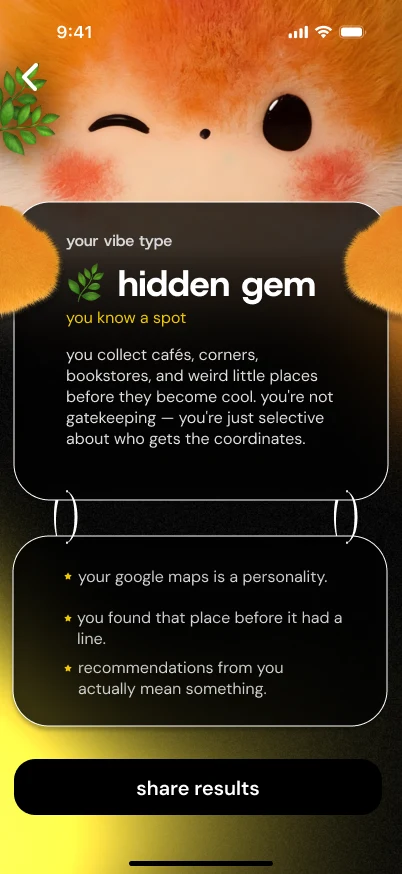
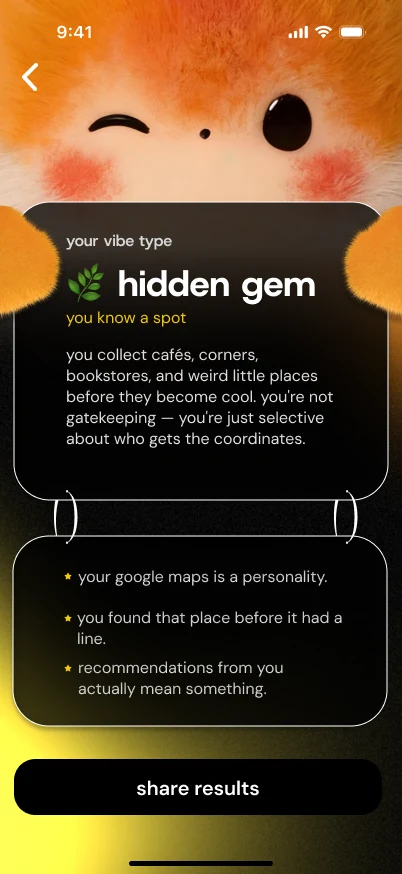
Blinkko: fuller onboarding flow, device-join screens, new hidden gem result
Onboarding prototype runs welcome to vibe type in eight steps. New
section shows the hi-fi pairing sequence: senses, the encounter, fit.

Changed region(s): [[0.0, 0.0618, 0.1791, 0.2162]]

diff --git a/projects/blinkko/index.html b/projects/blinkko/index.html
@@ -1369,6 +1369,11 @@
             transition: opacity 0.15s linear;
         }
 
+        /* a long flow (onboarding has eight steps) gets smaller thumbnails so the strip stays on one line */
+        .proto-strip:has(.phone-stage:nth-child(6)) .phone-stage {
+            width: min(9.5%, 64px);
+        }
+
         .proto-strip .phone-stage.is-current,
         .proto-strip .phone-stage:hover {
             opacity: 1;
@@ -2293,19 +2298,31 @@
                 <div class="app-stage" id="app-ui">
                     <div class="app-copy">
                         <p class="kicker">Onboarding</p>
-                        <p>Welcome: “a light born from what you feel…” then let’s go. Sign-in is Apple / Google first; avatar and username finish the free-app path. Once you are signed in, the vibe quiz lets Blinkko get to know you. The permission stack is no longer required up front.</p>
+                        <p>Welcome: “a light born from what you feel…” then let’s go. Sign-in is Apple / Google first; email is the fallback, confirmed with a six-digit code. Once you are signed in, the vibe quiz lets Blinkko get to know you and ends on your vibe type. The permission stack is no longer required up front.</p>
                     </div>
                     <div class="proto" data-first="move-in">
                         <button class="proto-phone" type="button" aria-label="Step onboarding prototype">
                             <span class="proto-stage">
                                 <img loading="lazy" decoding="async" class="is-on" src="app-welcome-opt.webp" alt="Blinkko welcome">
-                                <img loading="lazy" decoding="async" src="app-signin-opt.webp" alt="Blinkko sign in">
+                                <img loading="lazy" decoding="async" src="app-signin-opt.webp" alt="Blinkko sign up">
+                                <img loading="lazy" decoding="async" src="onboarding/verify-code.webp" alt="Verify your identity with a six-digit code">
+                                <img loading="lazy" decoding="async" src="onboarding/confirmed.webp" alt="Confirmed">
+                                <img loading="lazy" decoding="async" src="quiz/intro.webp" alt="Quiz: blinkko wants to know about you">
+                                <img loading="lazy" decoding="async" src="quiz/q1.webp" alt="Quiz question: it’s friday 6pm, what’s the move">
+                                <img loading="lazy" decoding="async" src="onboarding/quiz-loading.webp" alt="Loading your vibe type">
+                                <img loading="lazy" decoding="async" src="quiz/result-hiddengem.webp?v=2" alt="Vibe type result: hidden gem">
                             </span>
                         </button>
-                        <p class="proto-hint">Welcome → sign in</p>
+                        <p class="proto-hint">Welcome → sign up → verify → about you → quiz → your vibe type</p>
                         <div class="phone-row proto-strip">
                             <div class="phone-stage is-current"><div class="phone-frame"><img loading="lazy" decoding="async" src="app-welcome-opt.webp" alt=""></div></div>
                             <div class="phone-stage"><div class="phone-frame"><img loading="lazy" decoding="async" src="app-signin-opt.webp" alt=""></div></div>
+                            <div class="phone-stage"><div class="phone-frame"><img loading="lazy" decoding="async" src="onboarding/verify-code.webp" alt=""></div></div>
+                            <div class="phone-stage"><div class="phone-frame"><img loading="lazy" decoding="async" src="onboarding/confirmed.webp" alt=""></div></div>
+                            <div class="phone-stage"><div class="phone-frame"><img loading="lazy" decoding="async" src="quiz/intro.webp" alt=""></div></div>
+                            <div class="phone-stage"><div class="phone-frame"><img loading="lazy" decoding="async" src="quiz/q1.webp" alt=""></div></div>
+                            <div class="phone-stage"><div class="phone-frame"><img loading="lazy" decoding="async" src="onboarding/quiz-loading.webp" alt=""></div></div>
+                            <div class="phone-stage"><div class="phone-frame"><img loading="lazy" decoding="async" src="quiz/result-hiddengem.webp?v=2" alt=""></div></div>
                         </div>
                     </div>
 
@@ -2454,10 +2471,36 @@
                             <figure><img src="quiz/result-homebase.webp" width="402" height="874" loading="lazy" decoding="async" alt="Vibe type: homebase"><figcaption>homebase</figcaption></figure>
                             <figure><img src="quiz/result-nightowl.webp" width="402" height="874" loading="lazy" decoding="async" alt="Vibe type: night owl"><figcaption>night owl</figcaption></figure>
                             <figure><img src="quiz/result-sidequest.webp" width="402" height="874" loading="lazy" decoding="async" alt="Vibe type: side quest"><figcaption>side quest</figcaption></figure>
-                            <figure><img src="quiz/result-hiddengem.webp" width="402" height="874" loading="lazy" decoding="async" alt="Vibe type: hidden gem"><figcaption>hidden gem</figcaption></figure>
+                            <figure><img src="quiz/result-hiddengem.webp?v=2" width="402" height="874" loading="lazy" decoding="async" alt="Vibe type: hidden gem"><figcaption>hidden gem</figcaption></figure>
                             <figure><img src="quiz/result-spotlight.webp" width="402" height="874" loading="lazy" decoding="async" alt="Vibe type: spotlight"><figcaption>spotlight</figcaption></figure>
                     </div>
                     <p class="dd-after">Hardware stayed optional throughout: pairing moved out of onboarding, so the map and the social features work before anyone owns a device.</p>
+                </div>
+
+                <div class="note note-sub" id="onboarding-device">
+                    <p class="kicker">When a device joins</p>
+                    <p>Pairing became its own short sequence, started whenever someone adds a Blinkko. It carries the three phases of the first version into hi-fi: the setup is split into small asks, the encounter happens on the device itself, and it ends with Blinkko sitting right on the shoulder.</p>
+                    <p class="dd-row-head">Senses: one permission at a time, each with a reason and a small reward</p>
+                    <div class="dd-row">
+                            <figure><img src="onboarding/senses-intro.webp" width="402" height="874" loading="lazy" decoding="async" alt="Now let’s help your blinkko wake up"><figcaption>Why it asks</figcaption></figure>
+                            <figure><img src="onboarding/senses-list.webp" width="402" height="874" loading="lazy" decoding="async" alt="Blinkko’s senses: location, notifications, bluetooth"><figcaption>Three senses, all visible</figcaption></figure>
+                            <figure><img src="onboarding/senses-location.webp" width="402" height="874" loading="lazy" decoding="async" alt="Let blinkko discover your world: what location is used for"><figcaption>Location, with “not now”</figcaption></figure>
+                            <figure><img src="onboarding/senses-yay.webp" width="402" height="874" loading="lazy" decoding="async" alt="Yay! now i know where the fun stuff is"><figcaption>Blinkko reacts</figcaption></figure>
+                            <figure><img src="onboarding/senses-ready.webp" width="402" height="874" loading="lazy" decoding="async" alt="You are ready to explore"><figcaption>What it can do now</figcaption></figure>
+                    </div>
+                    <p class="dd-row-head">The encounter: pairing is the first meeting</p>
+                    <div class="dd-row">
+                            <figure><img src="onboarding/pair-connected.webp" width="402" height="874" loading="lazy" decoding="async" alt="Blinkko orange found, connect"><figcaption>Found nearby</figcaption></figure>
+                            <figure><img src="onboarding/meet-blink.webp" width="402" height="874" loading="lazy" decoding="async" alt="Blink... blink..."><figcaption>A faint light</figcaption></figure>
+                            <figure><img src="onboarding/meet-tap.webp" width="402" height="874" loading="lazy" decoding="async" alt="Tap to give it energy"><figcaption>Tap to give it energy</figcaption></figure>
+                            <figure><img src="onboarding/meet-recognize.webp" width="402" height="874" loading="lazy" decoding="async" alt="It seems to recognize you"><figcaption>It recognizes you</figcaption></figure>
+                    </div>
+                    <p class="dd-row-head">Wearing it: a fit check before the first walk</p>
+                    <div class="dd-row">
+                            <figure><img src="onboarding/wear-shoulder.webp" width="402" height="874" loading="lazy" decoding="async" alt="Put blinkko on your shoulder"><figcaption>Mount under clothes</figcaption></figure>
+                            <figure><img src="onboarding/wear-fit.webp" width="402" height="874" loading="lazy" decoding="async" alt="How does it feel? perfect, or a little loose"><figcaption>How does it feel?</figcaption></figure>
+                            <figure><img src="onboarding/wear-tap.webp" width="402" height="874" loading="lazy" decoding="async" alt="Give blinkko a gentle tap"><figcaption>First tap, then explore</figcaption></figure>
+                    </div>
                 </div>
                     </div>
 
